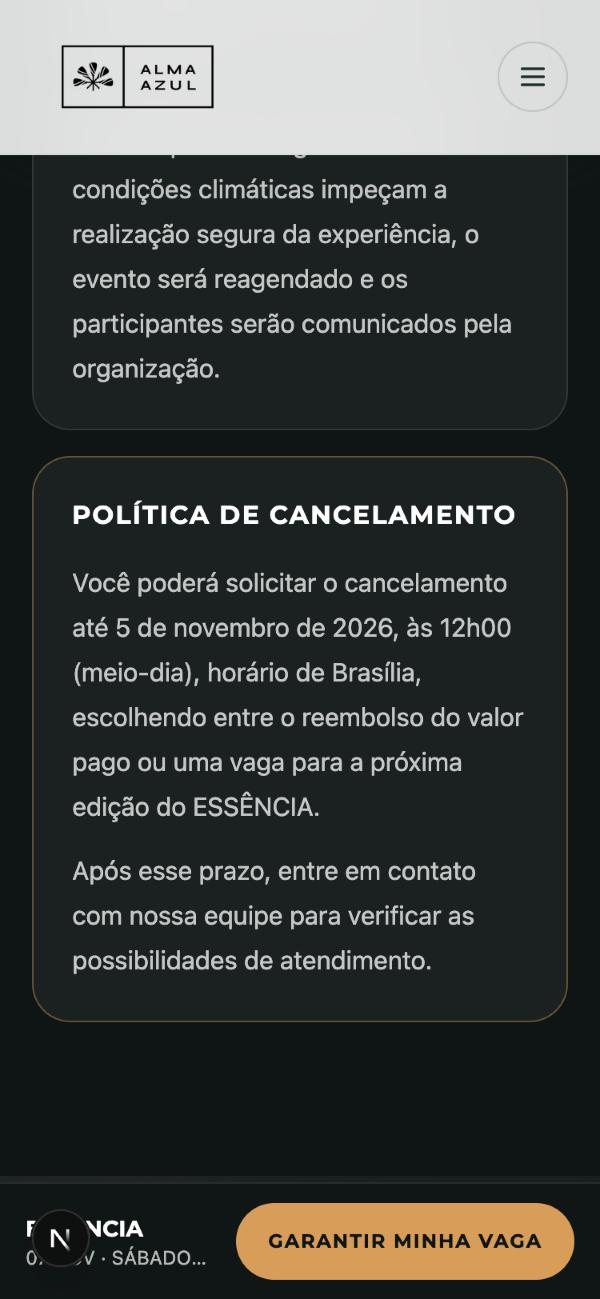
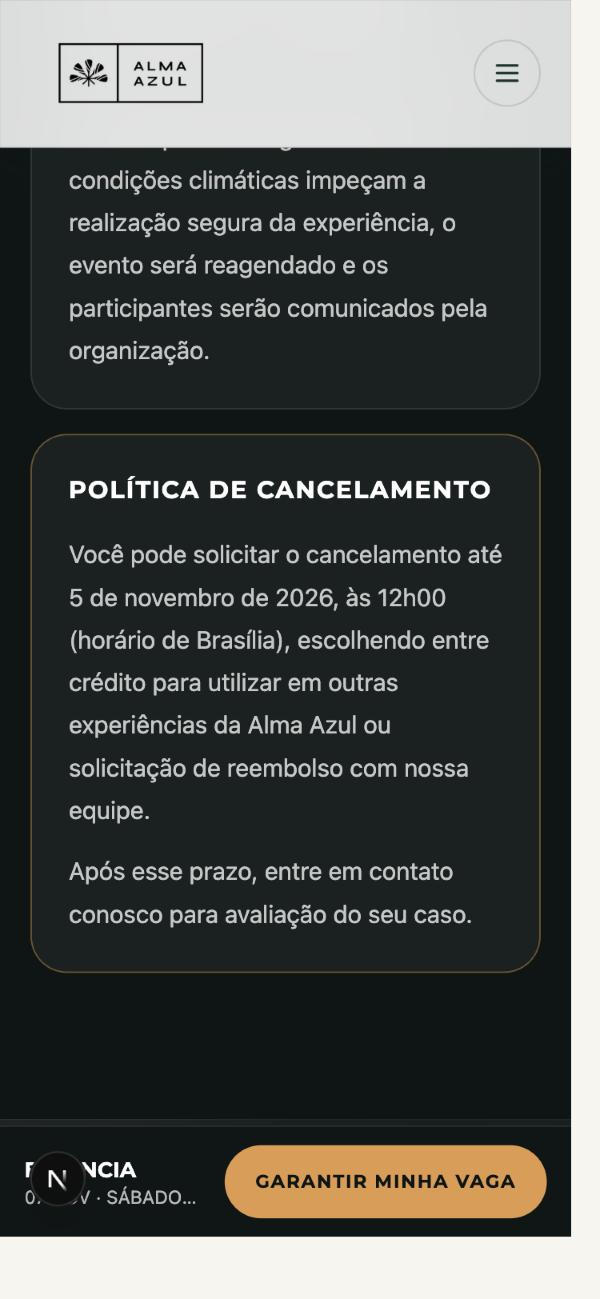
fix: política de cancelamento do ESSÊNCIA com crédito ou reembolso (fase 4)
Decisão posterior: dentro do prazo (05/11/2026, 12h00 de Brasília), o
participante escolhe entre crédito para outras experiências da Alma Azul
(implementado na fase 5) ou reembolso pedido à equipe, devolvido
manualmente. Sai a "vaga na próxima edição".

- texto da política e resumo junto ao botão com a redação aprovada
- prazo, fuso e validações inalterados; política segue configurável
- testes: texto exato, sem "próxima edição", sem promessa automática
- capturas desatualizadas trocadas; documentação da fase 5

Stand-by, reservas e reembolsos não mudam. Design inalterado.

diff --git a/tests/special-events-public.test.ts b/tests/special-events-public.test.ts
@@ -137,9 +137,13 @@ test("informações do ESSÊNCIA: os sete textos aprovados, todos publicáveis",
   assert.match(byId("alimentacao"), /Nutre Congelados Saudáveis/);
   assert.match(byId("clima"), /o evento será reagendado e os participantes serão comunicados pela organização/);
   assert.deepEqual(infoParagraphs(byId("cancelamento")), [
-    "Você poderá solicitar o cancelamento até 5 de novembro de 2026, às 12h00 (meio-dia), horário de Brasília, escolhendo entre o reembolso do valor pago ou uma vaga para a próxima edição do ESSÊNCIA.",
-    "Após esse prazo, entre em contato com nossa equipe para verificar as possibilidades de atendimento.",
+    "Você pode solicitar o cancelamento até 5 de novembro de 2026, às 12h00 (horário de Brasília), escolhendo entre crédito para utilizar em outras experiências da Alma Azul ou solicitação de reembolso com nossa equipe.",
+    "Após esse prazo, entre em contato conosco para avaliação do seu caso.",
   ]);
+  // A política não fala mais em vaga na próxima edição e não promete nada automático.
+  const policyTexts = JSON.stringify([byId("cancelamento"), result.data.event.cancellation]);
+  assert.doesNotMatch(policyTexts, /próxima edição/i);
+  assert.doesNotMatch(policyTexts, /automátic|imediat|instantâne|na hora/i);
 
   // Nenhuma referência à antiga chegada às 05h15, em nenhum texto do evento.
   assert.doesNotMatch(JSON.stringify(ESSENCIA_EDITORIAL), /0?5h15|0?5:15/);
@@ -164,7 +168,7 @@ test("cancelamento: prazo inequívoco de 05/11/2026 às 12h00 de Brasília, incl
   assert.ok(result.success);
   if (!result.success) return;
   const cancellation = result.data.event.cancellation!;
-  assert.deepEqual(cancellation, { deadline: "2026-11-05T12:00:00-03:00", timeZone: "America/Sao_Paulo", summary: "reembolso ou vaga na próxima edição" });
+  assert.deepEqual(cancellation, { deadline: "2026-11-05T12:00:00-03:00", timeZone: "America/Sao_Paulo", summary: "crédito para utilizar em outras experiências da Alma Azul ou solicitação de reembolso com nossa equipe" });
   assert.equal(new Date(cancellation.deadline).toISOString(), "2026-11-05T15:00:00.000Z");
   assert.equal(deadlineDayText(cancellation.deadline), "5 de novembro de 2026");
   assert.equal(deadlineTimeText(cancellation.deadline), "12h00");

diff --git a/lib/events/fixtures/essencia.ts b/lib/events/fixtures/essencia.ts
@@ -191,7 +191,7 @@ export const ESSENCIA_EDITORIAL = {
         {
           id: "cancelamento",
           title: "Política de cancelamento",
-          body: "Você poderá solicitar o cancelamento até 5 de novembro de 2026, às 12h00 (meio-dia), horário de Brasília, escolhendo entre o reembolso do valor pago ou uma vaga para a próxima edição do ESSÊNCIA.\n\nApós esse prazo, entre em contato com nossa equipe para verificar as possibilidades de atendimento.",
+          body: "Você pode solicitar o cancelamento até 5 de novembro de 2026, às 12h00 (horário de Brasília), escolhendo entre crédito para utilizar em outras experiências da Alma Azul ou solicitação de reembolso com nossa equipe.\n\nApós esse prazo, entre em contato conosco para avaliação do seu caso.",
         },
       ],
     },
@@ -199,10 +199,11 @@ export const ESSENCIA_EDITORIAL = {
     arrival: { startTime: "05:30", toleranceUntil: "05:50" },
     /**
      * Prazo inclusivo: pedidos até 05/11/2026 12h00 de Brasília (UTC−3) estão
-     * dentro. Nada é automático — reembolso ou vaga na próxima edição são
-     * tratados pela equipe; a vaga não vira reserva sozinha.
+     * dentro. Nada é automático nesta fase: o crédito para outras experiências
+     * chega na fase 5, e o reembolso é pedido pelo WhatsApp oficial e devolvido
+     * manualmente pela equipe.
      */
-    cancellation: { deadline: "2026-11-05T12:00:00-03:00", timeZone: "America/Sao_Paulo", summary: "reembolso ou vaga na próxima edição" },
+    cancellation: { deadline: "2026-11-05T12:00:00-03:00", timeZone: "America/Sao_Paulo", summary: "crédito para utilizar em outras experiências da Alma Azul ou solicitação de reembolso com nossa equipe" },
     reservation: {
       eyebrow: "Sua próxima pausa tem data marcada",
       title: "Garanta a sua vaga",

diff --git a/lib/events/policy.ts b/lib/events/policy.ts
@@ -9,10 +9,10 @@
  * (`America/Sao_Paulo`). O prazo é **inclusivo**: um pedido recebido
  * exatamente no instante limite ainda está dentro dele.
  *
- * Esta fase só informa. Não há cancelamento, reembolso, transferência nem
- * reagendamento automáticos: a equipe usa os fluxos de sempre do painel
- * (cancelamento e Stand-by), e a vaga para a próxima edição é um direito a
- * organizar quando ela existir, nunca uma reserva criada sozinha.
+ * Esta fase só informa. Não há cancelamento, crédito, reembolso nem
+ * reagendamento automáticos: o crédito para outras experiências é
+ * implementado na fase 5, e o reembolso é pedido pelo atendimento oficial no
+ * WhatsApp e devolvido manualmente pela equipe.
  *
  * Módulo puro, sem imports de aplicação: é lido pelo Next e pelos testes.
  */
@@ -34,7 +34,7 @@ export type EventCancellation = {
   /** Instante limite, ISO com deslocamento. Inclusivo. */
   deadline: string;
   timeZone: typeof POLICY_TIME_ZONE;
-  /** Resumo curto ao lado do botão de reserva, ex.: "reembolso ou vaga na próxima edição". */
+  /** Resumo curto ao lado do botão de reserva, ex.: "crédito para outras experiências ou reembolso". */
   summary: string;
 };
 

diff --git a/docs/special-events.md b/docs/special-events.md
@@ -211,23 +211,26 @@ Textos definitivos aprovados em 29/10/2026, em `info.items` da fixture: horário
 | Regra | Valor guardado | Onde aparece |
 | --- | --- | --- |
 | Início e tolerância | `arrival: { startTime: "05:30", toleranceUntil: "05:50" }` | Texto "Horário e chegada" e a linha "Chegada · tolerância até 05H50" no bloco de reserva |
-| Prazo de cancelamento | `cancellation.deadline = "2026-11-05T12:00:00-03:00"` (`= 2026-11-05T15:00:00Z`), `timeZone: "America/Sao_Paulo"` | Texto "Política de cancelamento" e, junto ao botão de reserva, "Cancelamento até 05/11/2026 às 12h00 (horário de Brasília): reembolso ou vaga na próxima edição", com link para a política completa |
+| Prazo de cancelamento | `cancellation.deadline = "2026-11-05T12:00:00-03:00"` (`= 2026-11-05T15:00:00Z`), `timeZone: "America/Sao_Paulo"` | Texto "Política de cancelamento" e, junto ao botão de reserva, "Cancelamento até 05/11/2026 às 12h00 (horário de Brasília): crédito para utilizar em outras experiências da Alma Azul ou solicitação de reembolso com nossa equipe.", com link para a política completa |
 
 O validador recusa prazo sem deslocamento, fuso diferente de `America/Sao_Paulo` e texto que diga outro dia ou hora que a regra — mudar uma sem a outra não passa. `arrivalMatchesSession` confere a chegada com a sessão cadastrada (início igual, tolerância entre o início e o fim).
 
 **Prazo inclusivo** (`cancellationWindow`, `lib/events/policy.ts`): pedido até `2026-11-05T12:00:00.000-03:00`, inclusive, é `WITHIN_DEADLINE`; um milissegundo depois, `AFTER_DEADLINE` — análise da equipe, sem promessa automática.
 
-**Nada é automático nesta fase**, e os fluxos existentes cobrem a política sem mudança:
+**Nada é automático nesta fase.** A política definitiva (decisão de 29/10/2026) dá duas escolhas dentro do prazo, e a parte financeira e operacional fica para a **fase 5**:
 
-- **Reembolso**: a equipe cancela pelo painel (`admin_cancel_reservation`, com motivo e auditoria) e devolve o valor fora da plataforma, como hoje. Nenhum reembolso é disparado pelo site.
-- **Vaga na próxima edição**: o direito fica registrado com o **Stand-by** — a reserva paga sai da turma, mantém pagamento, valor e código, não ocupa vaga e não expira. Quando a próxima edição existir (`admin_duplicate_event`), a equipe ou o cliente escolhem a nova sessão; a trava de tipo permite evento → evento, e a régua de mesmo valor por pessoa vale como sempre (edição com outro preço exige tratamento manual). Nenhuma reserva nova é criada sozinha.
+- **Crédito para outras experiências da Alma Azul**: o valor elegível da reserva vira crédito para usar em outras experiências, nas condições de uso que a fase 5 vai implementar. Hoje a plataforma não tem crédito: nada é gerado nem prometido como automático.
+- **Reembolso**: pedido pelo atendimento oficial da Alma Azul no WhatsApp; a devolução é feita manualmente pela equipe, como hoje. Nenhum reembolso é disparado pelo site.
+- **Depois do prazo**: avaliação caso a caso pela equipe, sem promessa automática.
 - **Clima**: reagendar o evento é mudar a data da sessão pelo painel; o aviso aos participantes é feito pela organização (não há e-mail automático de mudança de data).
 - **Antes da confirmação**: a política fica visível na página do evento, ao lado do botão. Na fase 5, a página de reserva e o e-mail de confirmação do evento devem repetir o prazo a partir do mesmo `cancellation`.
+
+Stand-by, reservas, cancelamento pelo painel e reembolsos **não mudam** nesta fase. O texto deixou de falar em "vaga na próxima edição"; o Stand-by continua existindo para a equipe, sem ser parte da política comunicada.
 
 ### Pendente antes de publicar
 
 - Confirmação dos parceiros quanto ao uso dos logos; logo do Rapha Dantas, se houver.
-- Fase 5: botão de reserva (`EVENT_BOOKING_OPEN`), política na página de reserva e e-mail de evento.
+- Fase 5: botão de reserva (`EVENT_BOOKING_OPEN`), política na página de reserva, e-mail de evento e o **crédito para outras experiências** (regras de uso, saldo e registro) — com o reembolso seguindo manual pelo WhatsApp.
 - **Fase 5, obrigatório antes de vender**: o e-mail de confirmação atual (`lib/reservations/confirmation-email.ts`) vale para qualquer base e traria a uma reserva do ESSÊNCIA textos de remada que contradizem o evento — "cancelamento até 1 dia antes" (`CANCELLATION_NOTE`) e "roupa de banho"/"chinelo" (`PREPARATION_ITEMS`). A tolerância de 20 minutos (`MEETING_TOLERANCE_NOTE`) coincide com 05h50. O e-mail de evento deve usar `event.cancellation`, `event.arrival` e os textos de `info.items`. Hoje nada disso chega a cliente: a reserva do evento não está aberta.
 - O slug `demonstracao` fica reservado para a prévia: um evento com esse slug não teria página.
 

diff --git a/CHANGELOG.md b/CHANGELOG.md
@@ -7,7 +7,7 @@
 - **Item "Eventos" no menu e destaque na home** só com a seção ligada e evento publicado. `/experiencias/[slug]` de um evento leva à página do evento.
 - **Botão "Garantir minha vaga" sem checkout** nesta fase (`EVENT_BOOKING_OPEN = false`), respeitando vagas, esgotado, encerrado e realizado.
 - **Prévia com o ESSÊNCIA de demonstração** em `/eventos/demonstracao`, só no desenvolvimento e no Preview, sem banco, `noindex`. Fotos reais do repositório e do Cápsula Bar; logos fornecidos; informações operacionais pendentes só na prévia.
-- **Informações operacionais definitivas do ESSÊNCIA**: chegada às 05h30 com tolerância até 05h50, o que levar (materiais de Superioga fornecidos pela equipe), experiência, segurança, alimentação, clima e cancelamento até 05/11/2026 às 12h00 de Brasília (`2026-11-05T12:00:00-03:00`, inclusivo), configuráveis em `editorial_content` e conferidos contra os textos. Nada de reembolso ou transferência automáticos.
+- **Informações operacionais definitivas do ESSÊNCIA**: chegada às 05h30 com tolerância até 05h50, o que levar (materiais de Superioga fornecidos pela equipe), experiência, segurança, alimentação, clima e cancelamento até 05/11/2026 às 12h00 de Brasília (`2026-11-05T12:00:00-03:00`, inclusivo) com escolha entre crédito para outras experiências da Alma Azul (implementado na fase 5) ou reembolso pedido pelo WhatsApp e devolvido manualmente, configuráveis em `editorial_content` e conferidos contra os textos. Nada automático nesta fase.
 - Reservas, pagamentos, e-mails, planilha, Stand-by, lista de espera e check-in não foram alterados.
 
 ## Eventos especiais — separação no site (fase 3)
